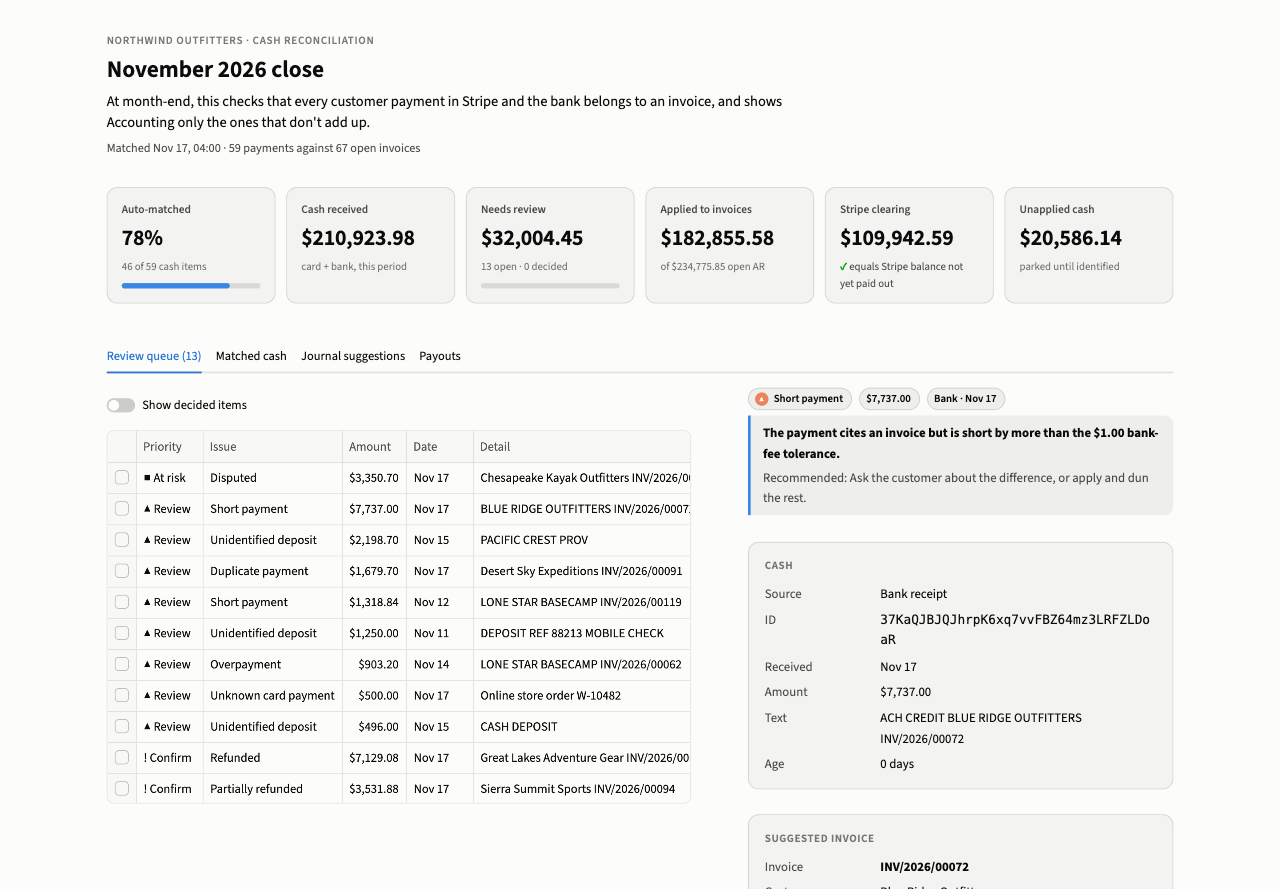
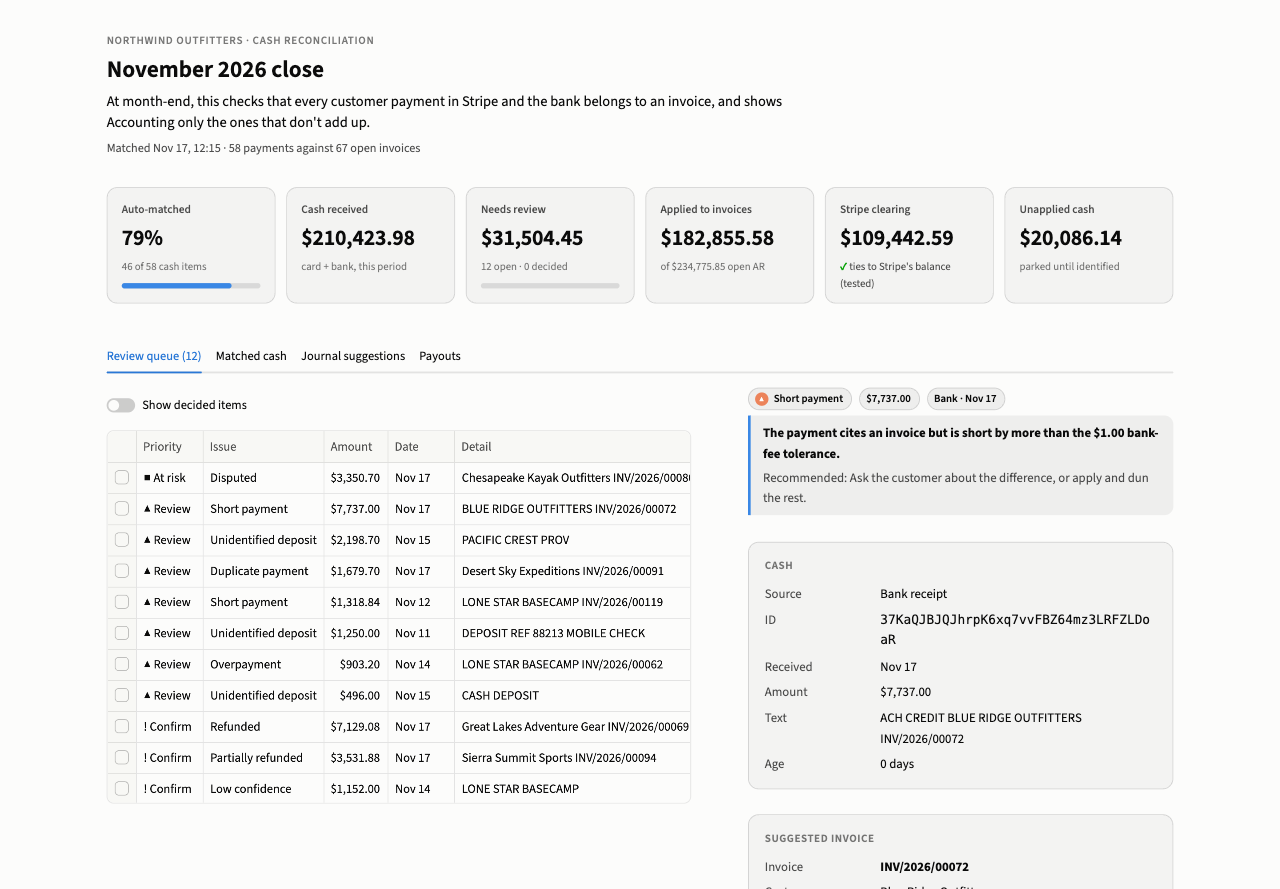
Demo staleness stamp written by recon demo; current screenshots
A demo warehouse built by the CLI had no snapshot stamp, so the app
failed to open it. recon demo now writes the stamp, the app treats a
missing stamp as stale, and the fingerprint lives in recon.snapshot.

Changed region(s): [[0.125, 0.4859, 0.5312, 0.9111], [0.6562, 0.2733, 0.75, 0.3341], [0.1562, 0.1519, 0.1875, 0.1822]]

diff --git a/src/recon/app/data.py b/src/recon/app/data.py
@@ -10,7 +10,10 @@ from typing import Any
 
 import duckdb
 
+from recon.snapshot import fingerprint as snapshot_fingerprint  # re-exported for the app
 from recon.warehouse import Warehouse
+
+__all__ = ["snapshot_fingerprint"]  # plus the functions below, used by the app
 
 
 def db_path() -> str:
@@ -39,7 +42,7 @@ def ensure_demo_db() -> None:
     stamp = target.with_name(target.name + ".snapshot")
     if target.exists() and not stamp.exists() and target.name != "demo.duckdb":
         return  # a real warehouse (local use), not a demo build: never touch it
-    if target.exists() and stamp.read_text() == snapshot_fingerprint():
+    if target.exists() and stamp.exists() and stamp.read_text() == snapshot_fingerprint():
         return
     target.unlink(missing_ok=True)  # demo built from an older snapshot: rebuild
     building = target.with_name(target.name + ".building")
@@ -47,20 +50,8 @@ def ensure_demo_db() -> None:
         leftover.unlink(missing_ok=True)
     subprocess.run([sys.executable, "-m", "recon.cli", "demo", "--db", str(building)],
                    check=True, env={**os.environ, "RECON_DUCKDB_PATH": str(building)})
-    building.rename(target)
-    stamp.write_text(snapshot_fingerprint())
-
-
-def snapshot_fingerprint() -> str:
-    """Changes whenever the committed snapshot or the matching config changes."""
-    import hashlib
-    from pathlib import Path
-
-    h = hashlib.sha256()
-    for f in sorted([*Path("seeds/snapshot").glob("*.csv"), Path("config/matching.yaml")]):
-        h.update(f.name.encode())
-        h.update(f.read_bytes())
-    return h.hexdigest()
+    building.rename(target)  # `recon demo` already wrote the stamp next to the temp file
+    building.with_name(building.name + ".snapshot").rename(stamp)
 
 
 def _query(sql: str, params: list[Any] | None = None) -> list[dict[str, Any]]:

diff --git a/src/recon/cli.py b/src/recon/cli.py
@@ -359,8 +359,8 @@ def demo(db: str = typer.Option("demo.duckdb", help="New DuckDB file to build.")
     """Rebuild everything from the snapshot: load -> dbt -> match. No keys needed."""
     from recon.snapshot import load
 
-    if Path(db).exists():
-        Path(db).unlink()
+    for stale in (db, db + ".wal", db + ".snapshot"):
+        Path(stale).unlink(missing_ok=True)
     wh = Warehouse(db)
     try:
         console.print(load(wh))
@@ -369,6 +369,9 @@ def demo(db: str = typer.Option("demo.duckdb", help="New DuckDB file to build.")
     _run_dbt(db, "models")  # models only: the controls need the match decisions
     _run_matching(db)
     _run_dbt(db)  # rebuild marts from the decisions, then run every test
+    from recon.snapshot import fingerprint
+
+    Path(db + ".snapshot").write_text(fingerprint())  # lets the app spot a stale demo
     console.print(f"Demo warehouse ready: {db}  (open it with RECON_DUCKDB_PATH={db} make app)")
 
 

diff --git a/src/recon/snapshot.py b/src/recon/snapshot.py
@@ -52,3 +52,15 @@ def load(wh: Warehouse, in_dir: Path = SNAPSHOT_DIR) -> dict[str, int]:
         row = wh.con.execute(f"SELECT count(*) FROM raw.{table}").fetchone()
         counts[table] = int(row[0]) if row else 0
     return counts
+
+
+def fingerprint(in_dir: Path = SNAPSHOT_DIR) -> str:
+    """Changes whenever the committed snapshot or the matching config changes, so a demo
+    warehouse built from an older snapshot is recognized as stale."""
+    import hashlib
+
+    h = hashlib.sha256()
+    for f in sorted([*in_dir.glob("*.csv"), Path("config/matching.yaml")]):
+        h.update(f.name.encode())
+        h.update(f.read_bytes())
+    return h.hexdigest()
